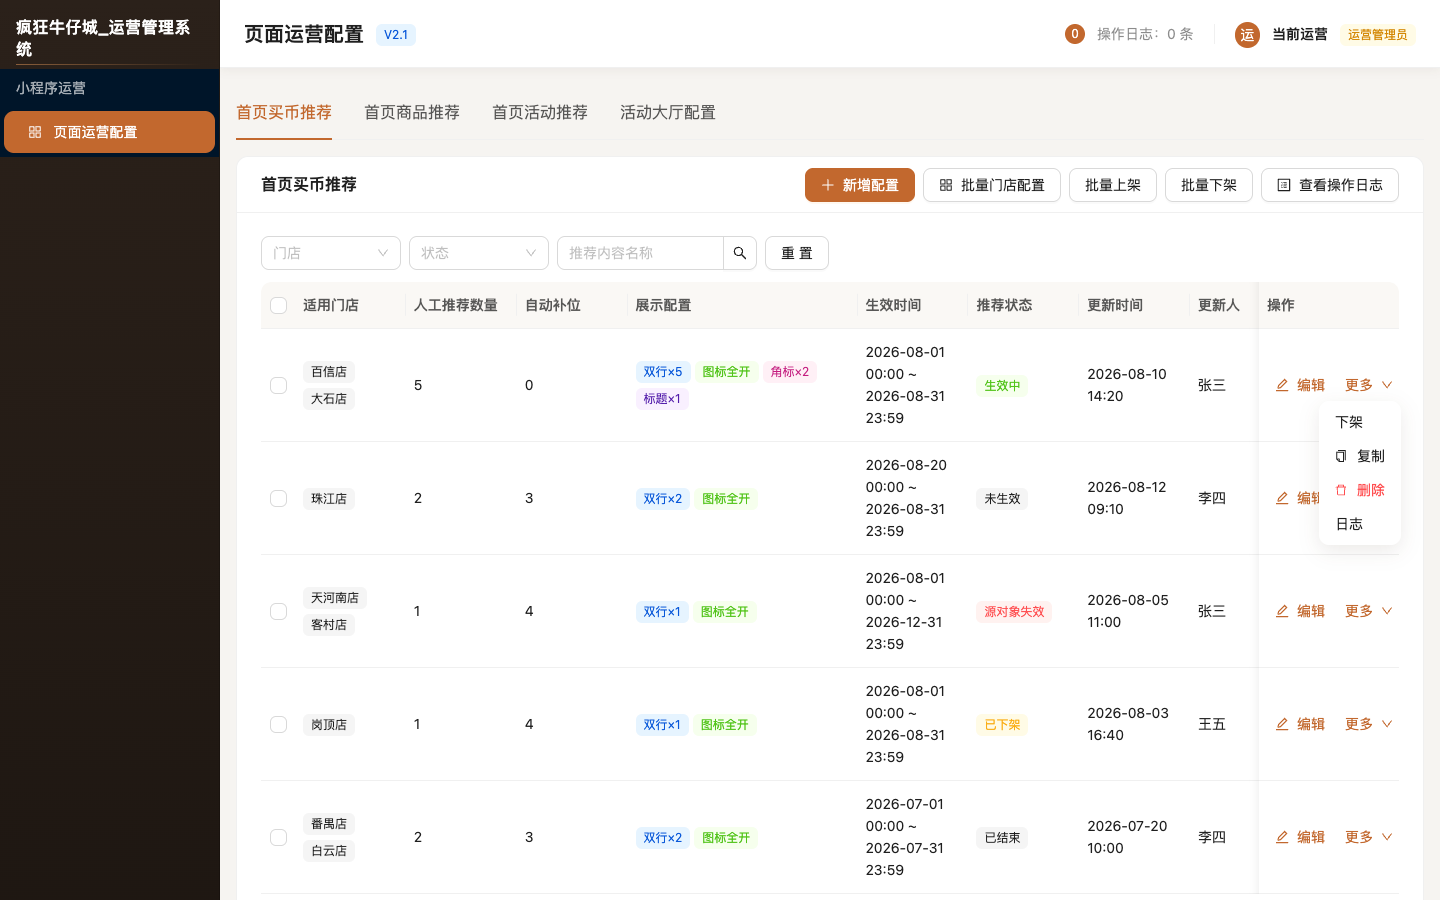
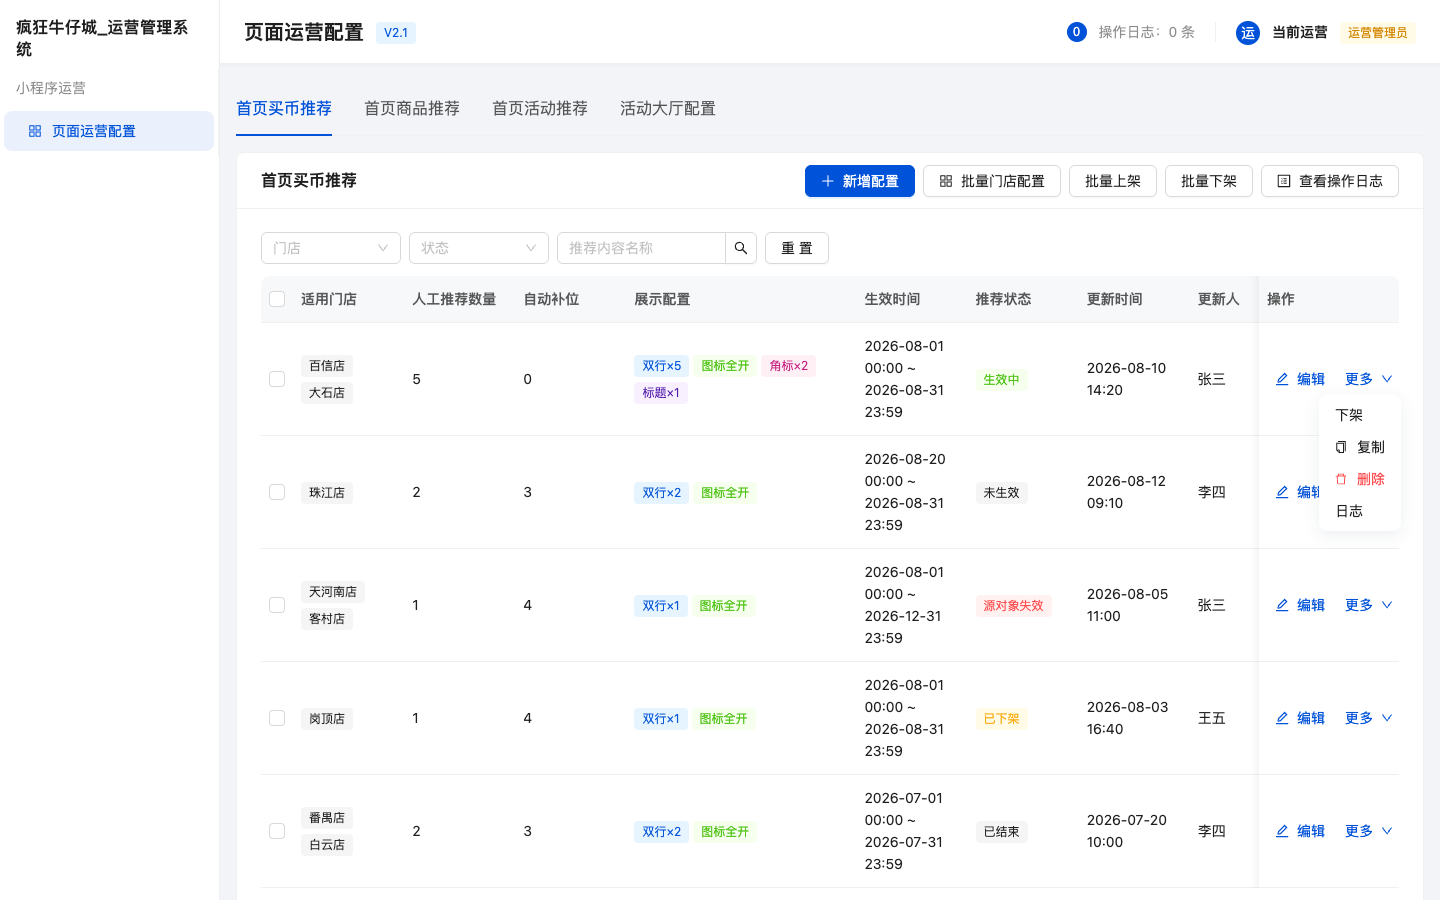
style: 改为腾讯云/字节式专业中后台风格——白侧边栏、专业蓝、浅灰背景、紧凑表格

diff --git a/src/main.jsx b/src/main.jsx
@@ -15,20 +15,20 @@ ReactDOM.createRoot(document.getElementById('root')).render(
       locale={zhCN}
       theme={{
         token: {
-          colorPrimary: '#C2682E',
-          colorLink: '#C2682E',
-          borderRadius: 8,
+          colorPrimary: '#0052D9',
+          colorLink: '#0052D9',
+          borderRadius: 6,
           fontSize: 14,
-          colorBgLayout: '#f6f4f1',
-          controlHeight: 34,
-          boxShadowSecondary: '0 6px 20px rgba(60, 40, 20, 0.10)',
+          colorBgLayout: '#f3f4f7',
+          controlHeight: 32,
+          boxShadowSecondary: '0 4px 16px rgba(15, 30, 70, 0.08)',
           colorTextHeading: 'rgba(0, 0, 0, 0.88)',
         },
         components: {
-          Card: { borderRadiusLG: 12 },
-          Table: { headerBg: '#faf8f5', headerColor: 'rgba(0,0,0,0.65)', rowHoverBg: '#fbf4ee' },
-          Menu: { itemBg: 'transparent', itemSelectedBg: 'rgba(194, 104, 46, 0.16)', itemSelectedColor: '#E89B5C' },
-          Tabs: { inkBarColor: '#C2682E', itemSelectedColor: '#C2682E', itemColor: 'rgba(0,0,0,0.65)' },
+          Card: { borderRadiusLG: 8 },
+          Table: { headerBg: '#f7f8fa', headerColor: 'rgba(0,0,0,0.65)', rowHoverBg: '#f2f6ff', headerSplitColor: 'transparent' },
+          Menu: { itemBg: 'transparent', itemSelectedBg: 'rgba(0,82,217,0.08)', itemSelectedColor: '#0052D9', itemHoverBg: 'rgba(0,82,217,0.05)' },
+          Tabs: { inkBarColor: '#0052D9', itemSelectedColor: '#0052D9', itemColor: 'rgba(0,0,0,0.65)' },
         },
       }}
     >

diff --git a/src/index.css b/src/index.css
@@ -19,8 +19,8 @@ body,
 }
 
 .app-sider {
-  background: linear-gradient(180deg, #2b211a 0%, #1d1611 100%);
-  border-right: 1px solid rgba(0, 0, 0, 0.2);
+  background: #fff;
+  border-right: 1px solid #eef0f3;
 }
 
 .app-header {
@@ -29,8 +29,8 @@ body,
   display: flex;
   align-items: center;
   justify-content: space-between;
-  border-bottom: 1px solid rgba(5, 5, 5, 0.06);
-  box-shadow: 0 2px 10px rgba(60, 40, 20, 0.06);
+  border-bottom: 1px solid #eef0f3;
+  box-shadow: 0 1px 4px rgba(15, 30, 70, 0.04);
   position: sticky;
   top: 0;
   z-index: 10;
@@ -42,24 +42,10 @@ body,
 }
 
 .app-logo-title {
-  color: #fff;
+  color: rgba(0, 0, 0, 0.88);
   font-size: 16px;
   font-weight: 600;
-  letter-spacing: 0.5px;
-}
-
-.app-logo {
-  position: relative;
-}
-
-.app-logo::after {
-  content: '';
-  position: absolute;
-  left: 16px;
-  right: 16px;
-  bottom: 4px;
-  height: 1px;
-  background: linear-gradient(90deg, rgba(232, 155, 92, 0.5), rgba(232, 155, 92, 0));
+  letter-spacing: 0.3px;
 }
 
 .app-logo-sub {

diff --git a/src/App.jsx b/src/App.jsx
@@ -132,7 +132,6 @@ export default function App() {
           <div className="app-logo-title">疯狂牛仔城_运营管理系统</div>
         </div>
         <Menu
-          theme="dark"
           mode="inline"
           defaultSelectedKeys={['page']}
           items={[
@@ -151,10 +150,10 @@ export default function App() {
             <Tag color="blue">V2.1</Tag>
           </Space>
           <Space size={12}>
-            <Badge count={logs.length} showZero color="#C2682E" />
+            <Badge count={logs.length} showZero color="#0052D9" />
             <Typography.Text type="secondary">操作日志：{logs.length} 条</Typography.Text>
             <Divider type="vertical" style={{ height: 20 }} />
-            <Avatar style={{ backgroundColor: '#C2682E', verticalAlign: 'middle' }} size="small">
+            <Avatar style={{ backgroundColor: '#0052D9', verticalAlign: 'middle' }} size="small">
               运
             </Avatar>
             <Typography.Text strong>当前运营</Typography.Text>

diff --git a/.workbuddy/memory/2026-08-15.md b/.workbuddy/memory/2026-08-15.md
@@ -37,3 +37,10 @@
 ## 13:00 GitHub Pages 方案放弃
 - 用户担心公开仓库泄露代码，最终选择方案 A：仓库保持私有，不开 Pages，同事访问走 CloudStudio 云端链接。
 - 已清理远程/本地的 gh-pages 分支。
+
+## 13:25 视觉现代化升级
+- 主题品牌化：`main.jsx` ConfigProvider 使用牛仔棕橙主色 `#C2682E`，圆角 8px，暖灰背景，卡片/表格/菜单 Token 统一调整。
+- 深色侧边栏：`src/index.css` `.app-sider` 改为深棕渐变，logo 白色高亮；`App.jsx` Menu 启用 `theme="dark"`。
+- 表头/卡片：`Card` 圆角 12px，表格表头暖米色，hover 行淡橙背景。
+- 回归测试：`activity-test.mjs` 26/26，`product-img-test.mjs` 18/18；`vite build` 通过。
+- 已提交并推送到 GitHub；CloudStudio 云端部署已同步更新。
